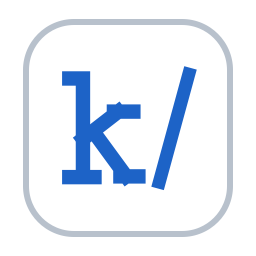
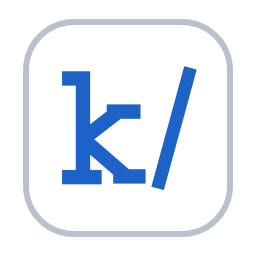
fix(kfind/brand): 로고 접합부 돌출을 제거한다 (#256)

diff --git a/specs/kfind.md b/specs/kfind.md
@@ -294,8 +294,10 @@
   최신 제품·외부 benchmark를 설명하고 전체 README와 source report로 연결한다.
 - site header, browser favicon, touch icon과 social card는 둥근 사각형 안의 `k/` brand mark를
   공유한다. Header에서는 mark 옆에 `kfind` 이름을 유지하고, 작은 크기의 icon은 같은 벡터
-  형상을 사용해 흐려지거나 찌그러지지 않아야 한다. Icon metadata를 제공하는 배포 채널은
-  128px 이상의 PNG 자산을 사용한다.
+  형상을 사용해 흐려지거나 찌그러지지 않아야 한다. `k`의 기둥과 두 팔은 같은 굵기의 단일
+  폐합 path로 이어져 내부 경계가 드러나지 않아야 한다. `k/`의 획 끝은 둥글지 않은 평면이고
+  경로 끝점 바깥으로 돌출되지 않아야 한다. Icon metadata를 제공하는 배포 채널은 128px 이상의
+  PNG 자산을 사용한다.
 - 한국어 문장은 기술 개념의 관계와 동작이 바로 드러나도록 쓴다. 제품·도메인의 표준 용어와
   코드 식별자는 원문 표기를 유지하되, 영어 문장 구조를 직역하거나 일반 용어를 기계적으로
   음역하지 않는다. 조건과 결과가 한 문장에 몰리면 문장을 나눠 설명한다.
